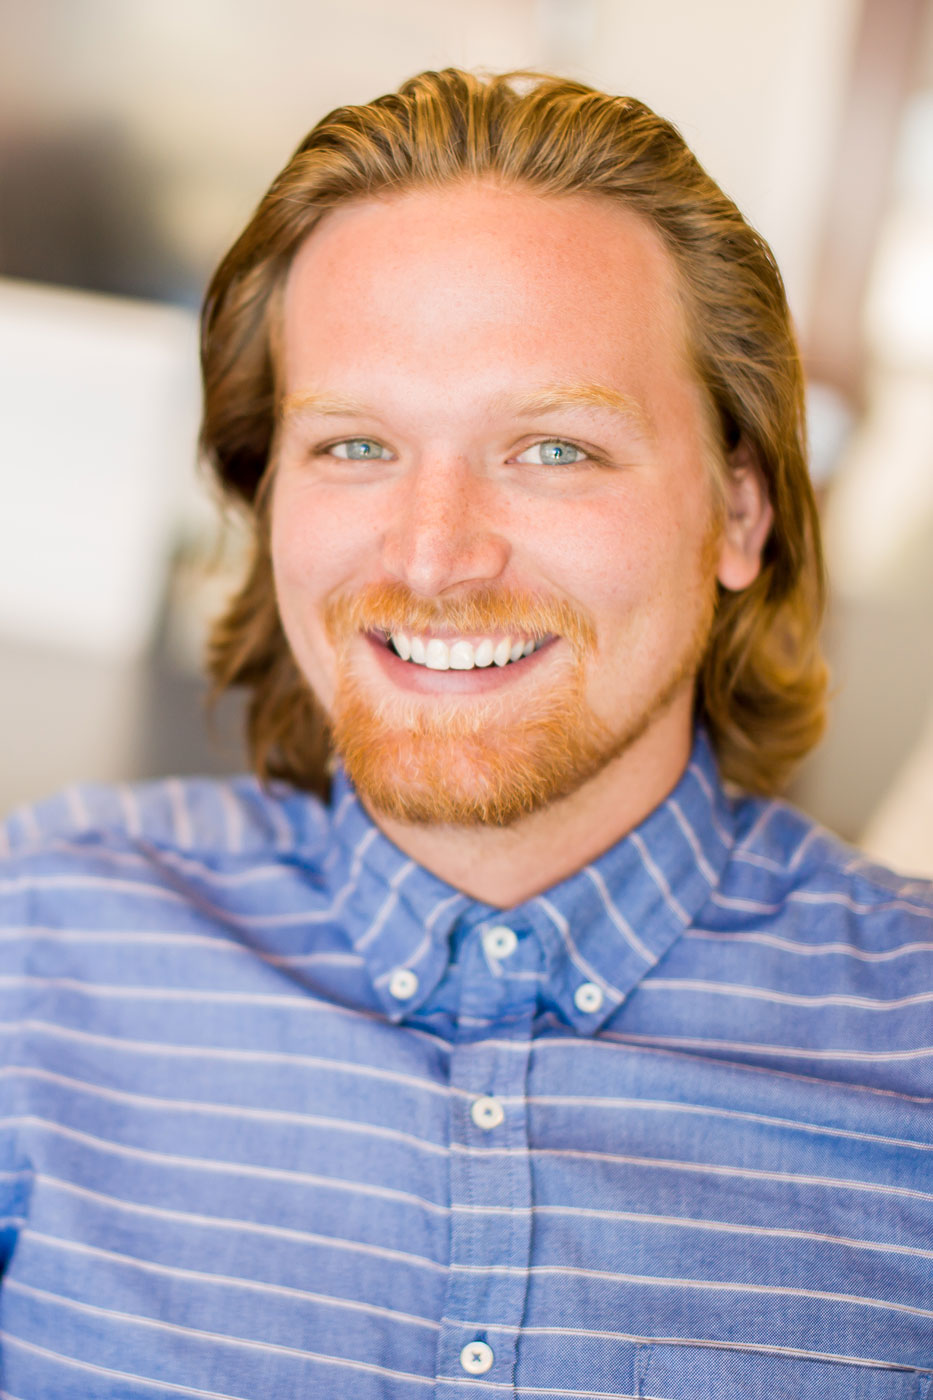
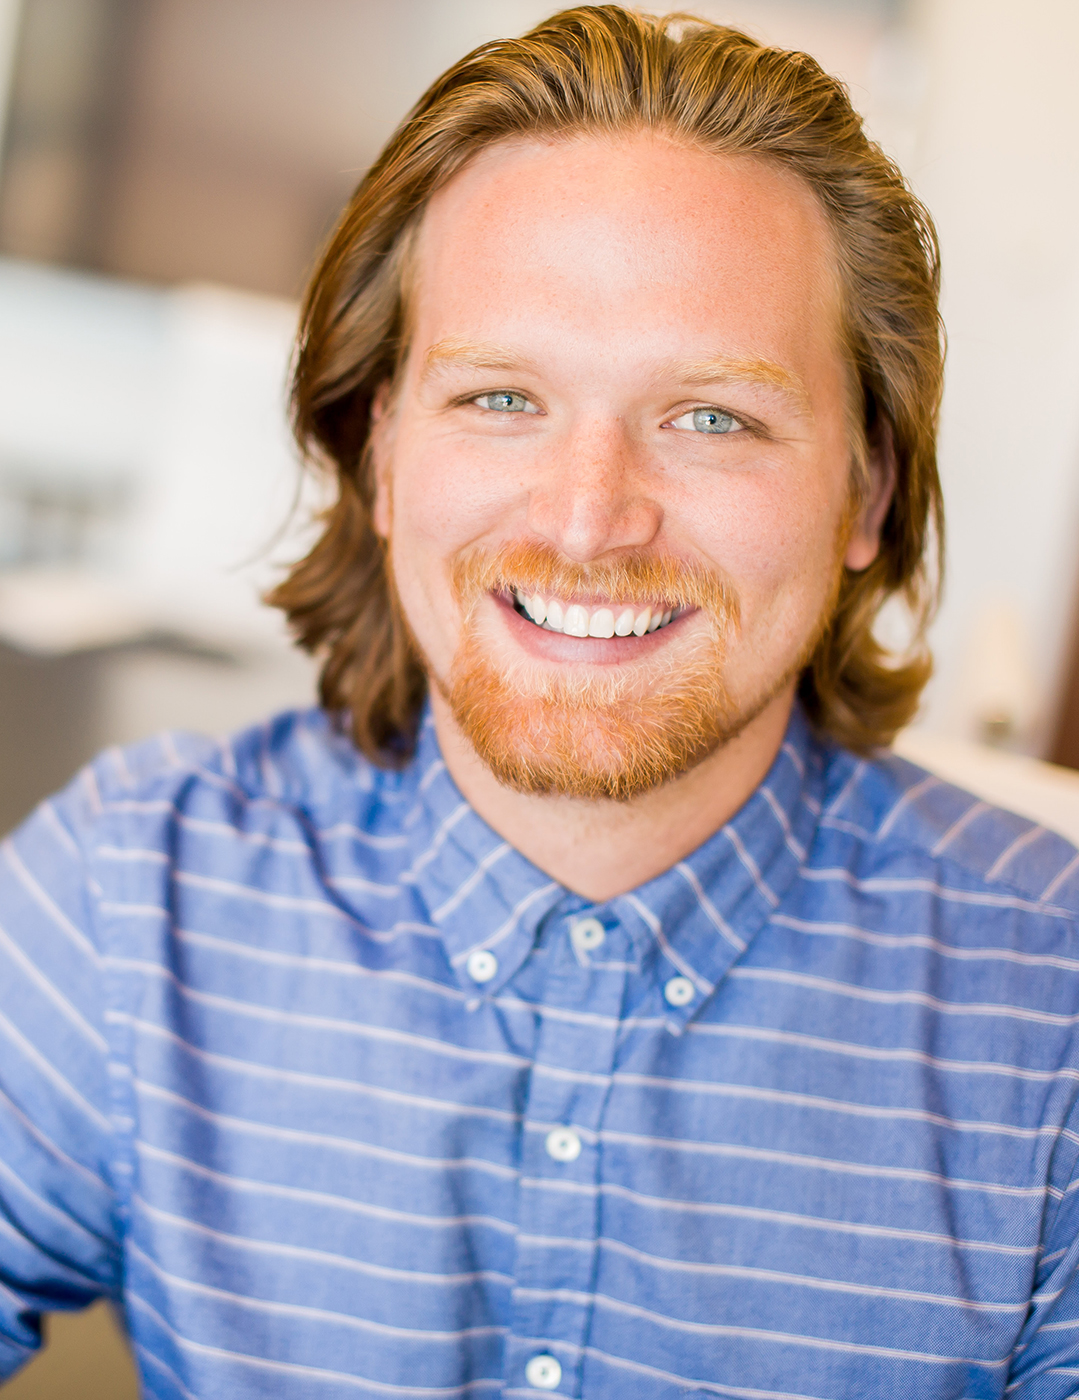
updated about us page

diff --git a/src/routes/about/+page.svelte b/src/routes/about/+page.svelte
@@ -1,6 +1,6 @@
 <script lang="ts">
 	import ContactBanner from '../../components/contact-banner.svelte';
-	import MichaelBonner from '../../images/michael-bonner.jpg';
+	import MichaelBonner from '../../images/michael-bonner.jpg?w=300,500;700;900&srcset';
 	import MichaelBonnerAvif from '../../images/michael-bonner.jpg?w=300,500;700;900&avif&srcset';
 	import MichaelBonnerWebp from '../../images/michael-bonner.jpg?w=300,500;700;900&webp&srcset';
 	let seoTitle = 'About Us | Bootpack Digital';
@@ -46,22 +46,27 @@
 				Who are we?
 			</h2>
 		</div>
-		<div class="mx-auto mt-8 max-w-3xl rounded-lg border border-gray-100 shadow-lg">
-			<div class="space-y-4 sm:grid sm:grid-cols-3 sm:gap-6 sm:space-y-0 lg:gap-8">
-				<picture>
-					<source srcset={MichaelBonnerAvif} type="image/avif" />
-					<source srcset={MichaelBonnerWebp} type="image/webp" />
-					<img
-						alt="Headshot of Michael Bonner"
-						class="my-0 overflow-hidden rounded-t-lg py-0 shadow-lg lg:rounded-r-none lg:rounded-l-lg"
-						height="395"
-						loading="lazy"
-						src={MichaelBonner}
-						width="266"
-					/>
-				</picture>
+		<div class="mx-auto mt-8 max-w-3xl">
+			<div class="items-start sm:grid sm:gap-6 lg:flex lg:gap-8">
+				<div class="px-4 lg:px-0">
+					<div
+						class="mt-4 h-72 w-full flex-shrink-0 overflow-hidden rounded-xl bg-gray-100 shadow-md md:mx-auto md:mt-0 md:h-64 md:w-52"
+					>
+						<picture class="overflow-hidden">
+							<source srcset={MichaelBonnerAvif} type="image/avif" />
+							<source srcset={MichaelBonnerWebp} type="image/webp" />
+							<img
+								alt="Michael Bonner"
+								height={1400}
+								loading="lazy"
+								src={MichaelBonner}
+								width={1079}
+							/>
+						</picture>
+					</div>
+				</div>
 
-				<div class="flex flex-col justify-between pb-2 pt-4 pr-4 sm:col-span-2">
+				<div class="mt-4 flex flex-col justify-between pr-4 lg:mt-0">
 					<div class="space-y-4 px-4 lg:px-0">
 						<div class="space-y-1 text-lg font-medium leading-6">
 							<h3 class="text-xl">Michael Bonner</h3>
